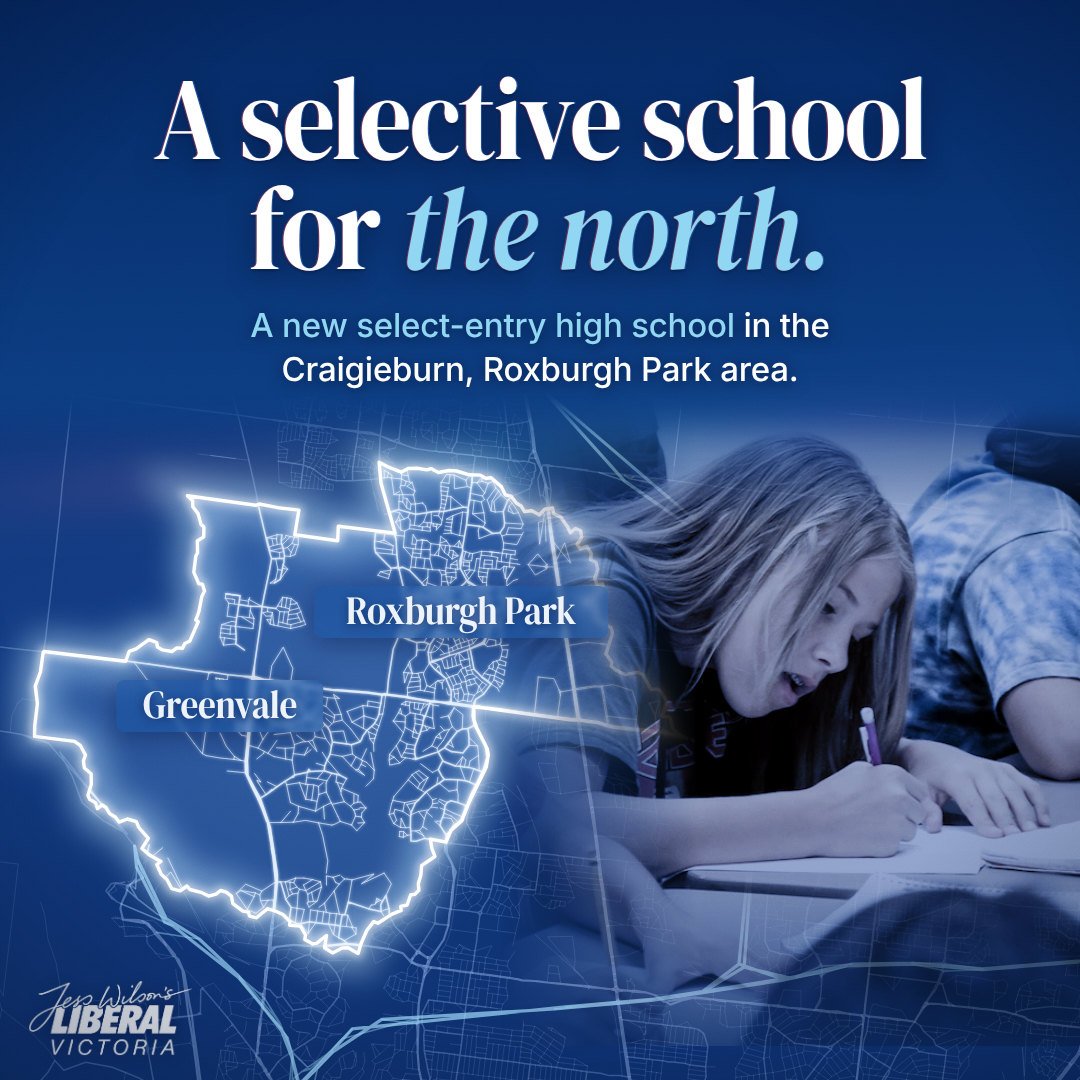
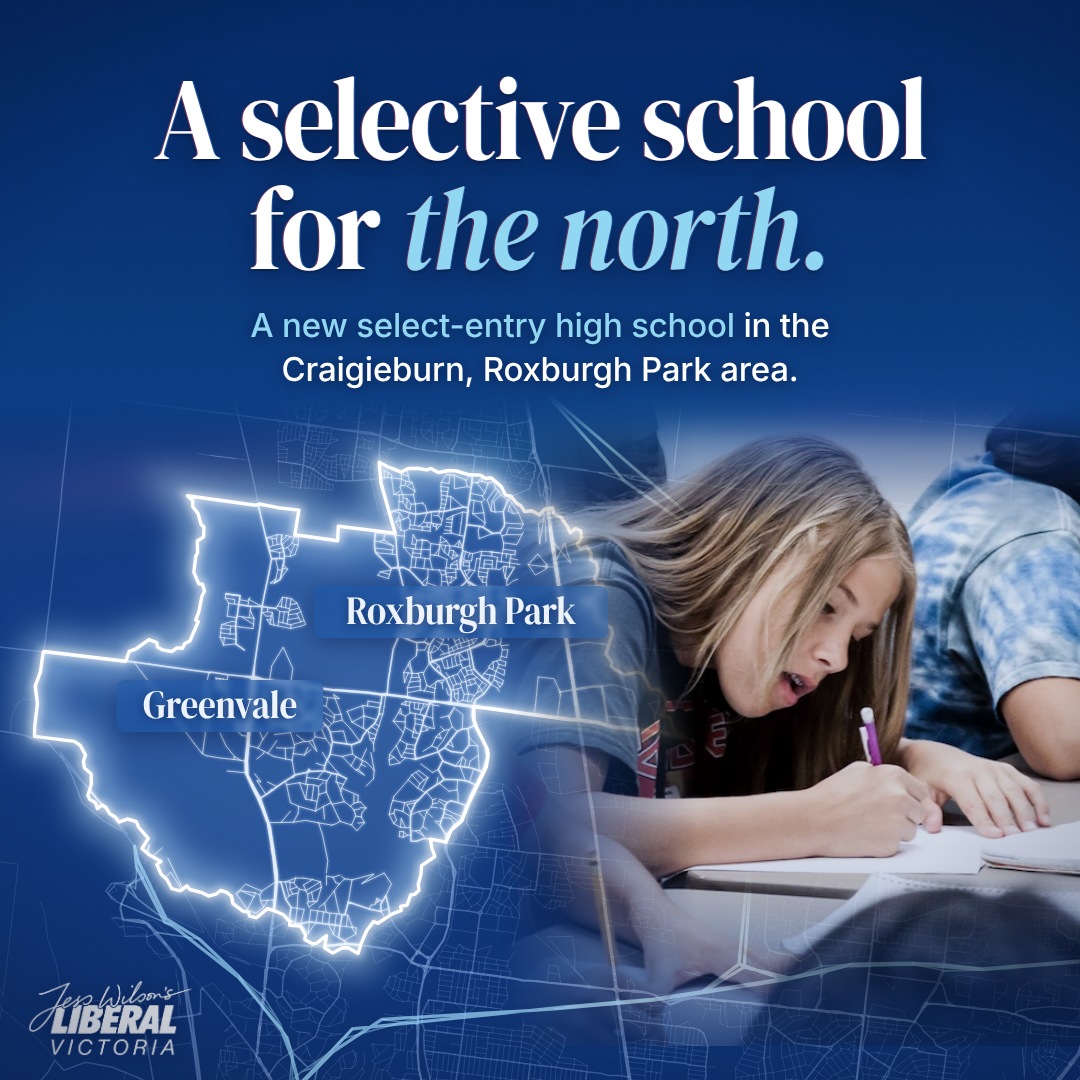
Lighten the blue grade on the classroom photo
Keep the photo's natural colour (more saturation, much lighter blue
colour and multiply layers); edge fades into the map are unchanged.

Claude-Session: https://claude.ai/code/session_01MT6wivusBEagFnhed7SAun

Changed region(s): [[0.5194, 0.3972, 1.0, 0.9472], [0.6417, 0.6722, 0.6722, 0.7028]]

diff --git a/designs/select-entry-school-north/source/slide-classroom.html b/designs/select-entry-school-north/source/slide-classroom.html
@@ -40,9 +40,9 @@ h1 em{color:var(--sky);font-style:italic;letter-spacing:-0.01em}
 .tag small{display:block;margin-top:5px;text-align:center;font-family:"Inter";font-weight:600;font-size:13px;letter-spacing:.24em;color:var(--sky);text-shadow:none}
 /* classroom photo: cropped in a masked box, graded toward the navy palette so it sits with the map */
 #photo{overflow:hidden;isolation:isolate;pointer-events:none}
-#photo img{position:absolute;filter:saturate(.7) contrast(1.1) brightness(.9)}
-#photo .tint{position:absolute;inset:0;mix-blend-mode:color;background:rgba(30,80,170,.38)}
-#photo .shade{position:absolute;inset:0;mix-blend-mode:multiply;background:linear-gradient(180deg,rgba(60,110,200,.30),rgba(20,60,150,.45))}
+#photo img{position:absolute;filter:saturate(.92) contrast(1.06) brightness(.96)}
+#photo .tint{position:absolute;inset:0;mix-blend-mode:color;background:rgba(30,80,170,.10)}
+#photo .shade{position:absolute;inset:0;mix-blend-mode:multiply;background:linear-gradient(180deg,rgba(90,130,200,.10),rgba(30,70,150,.22))}
 #logo{left:28px;bottom:24px;opacity:.92;filter:drop-shadow(0 2px 8px rgba(0,8,35,.5))}
 </style></head>
 <body><div id="stage">

diff --git a/designs/select-entry-school-north/README.md b/designs/select-entry-school-north/README.md
@@ -65,8 +65,8 @@ faceted up close, which is invisible at tile size.
 ## Classroom version
 
 `source/slide-classroom.html` swaps the portrait for `source/classroom.webp` (campaign-supplied stock
-photo, 1024×682): cropped to the student writing, graded toward the navy palette (desaturate +
-blue colour/multiply layers) and masked so it dissolves into the map on the left and the navy at
+photo, 1024×682): cropped to the student writing, lightly graded (natural colour, with a faint
+blue colour/multiply layer) and masked so it dissolves into the map on the left and the navy at
 top and bottom. Its `photo` param sets crop and mask; `mapSrc:"map-stacked.svg"` switches to a
 smaller, lower map for a photo-band-on-top layout (tried, not used). The photo is close to native
 size at 1080, so the @2x render is soft in the photo area — a larger original would fix that.
